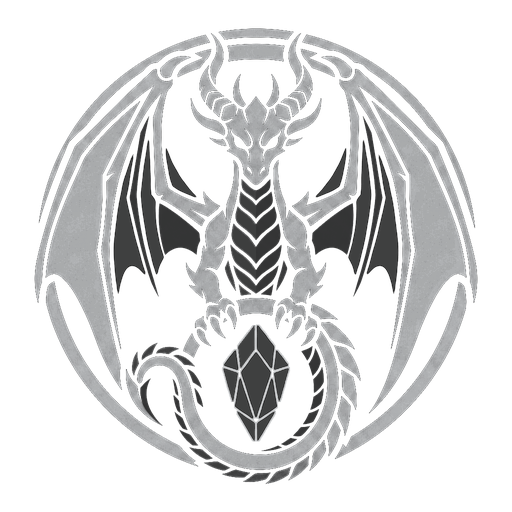
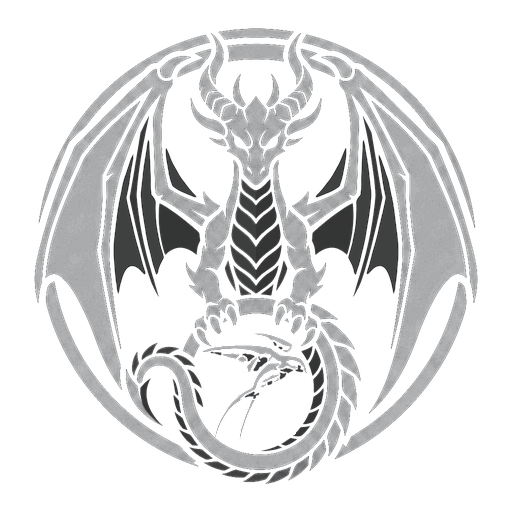
feat(witcher): replace crystal with toggleable Swallow (Zireael) emblem in Onyx Dragon theme (v189)

Changed region(s): [[0.4062, 0.625, 0.5938, 0.875]]

diff --git a/js/modules/witcher.js b/js/modules/witcher.js
@@ -9,6 +9,7 @@
   var WI_ACTIVE_ID_KEY = 'ttc_wi_active_id';
   var WI_META_KEY = 'ttc_wi_meta';
   var WI_THEME_KEY = 'ttc_wi_theme';
+  var WI_DRAGON_SWALLOW_KEY = 'ttc_wi_dragon_swallow';
 
   function defaultWitcherProfile(){
     return {
@@ -394,12 +395,40 @@
         id: 'dragon',
         title: 'Ониксовый Дракон',
         sub: 'Чёрный Оникс • Обсидиан и Пепел',
-        icon: 'symbols/Witcher/onyx_dragon_crest.png?v=165',
+        icon: 'symbols/Witcher/onyx_dragon_crest.png?v=189',
         accent: '#d4d4d8',
         glow: 'rgba(212,212,216,0.45)',
         toast: '🐉 Тема: Ониксовый Дракон (Чёрный Оникс и Обсидиан)'
       }
     ],
+
+    isDragonSwallowEnabled: function(){
+      try {
+        var raw = localStorage.getItem(WI_DRAGON_SWALLOW_KEY);
+        if(raw === '0' || raw === 'false') return false;
+        if(raw === '1' || raw === 'true') return true;
+      } catch(e){}
+      if(WI.meta && typeof WI.meta.dragonSwallow === 'boolean') return WI.meta.dragonSwallow;
+      return true;
+    },
+
+    setDragonSwallow: function(enabled){
+      var val = !!enabled;
+      try {
+        localStorage.setItem(WI_DRAGON_SWALLOW_KEY, val ? '1' : '0');
+      } catch(e){}
+      var m = WI.getMeta();
+      m.dragonSwallow = val;
+      WI.saveMeta(m);
+      WI.applyWitcherTheme();
+      return val;
+    },
+
+    getDragonCrestUrl: function(){
+      return WI.isDragonSwallowEnabled()
+        ? 'symbols/Witcher/onyx_dragon_crest.png?v=189'
+        : 'symbols/Witcher/onyx_dragon_crest_empty.png?v=189';
+    },
 
     getTheme: function(){
       var valid = function(id){
@@ -548,9 +577,10 @@
     },
 
     buildOnyxDragonEmblemSvg: function(){
+      var crestUrl = WI.getDragonCrestUrl();
       return '<div class="wi-bg-dragon-wrap" aria-hidden="true">' +
         '<div class="wi-bg-dragon-crest">' +
-          '<img src="symbols/Witcher/onyx_dragon_crest.png?v=165" alt="" draggable="false" />' +
+          '<img src="' + crestUrl + '" alt="" draggable="false" />' +
         '</div>' +
       '</div>';
     },
@@ -560,6 +590,7 @@
       cont.innerHTML = '';
       var theme = WI.getTheme();
       cont.setAttribute('data-wi-theme', theme);
+      cont.setAttribute('data-wi-dragon-swallow', WI.isDragonSwallowEnabled() ? '1' : '0');
 
       // 1. Фоновая геральдика активной темы
       var medallionWrap = document.createElement('div');
@@ -772,7 +803,8 @@
         document.body.insertBefore(cont, document.body.firstChild);
       }
       var curTheme = WI.getTheme();
-      if(cont.children.length === 0 || !cont.querySelector('.wi-sign-particle') || cont.getAttribute('data-wi-theme') !== curTheme){
+      var swallowAttr = WI.isDragonSwallowEnabled() ? '1' : '0';
+      if(cont.children.length === 0 || !cont.querySelector('.wi-sign-particle') || cont.getAttribute('data-wi-theme') !== curTheme || (curTheme === 'dragon' && cont.getAttribute('data-wi-dragon-swallow') !== swallowAttr)){
         WI.buildThemeFx(cont);
       }
       cont.style.display = 'block';
@@ -1196,18 +1228,39 @@
     var schoolIcon = getSchoolIcon(p.school);
     var curTheme = WI.getTheme();
     var activeThemeObj = WI.THEMES.find(function(t){ return t.id === curTheme; }) || WI.THEMES[0];
+    var swallowOn = WI.isDragonSwallowEnabled();
 
     var themeChipsHtml = WI.THEMES.map(function(t){
       var isAct = (t.id === curTheme);
+      var iconSrc = (t.id === 'dragon') ? WI.getDragonCrestUrl() : t.icon;
+      var subText = (t.id === 'dragon')
+        ? (swallowOn ? 'Чёрный Оникс • Символ Ласточки' : 'Чёрный Оникс • Обсидиан и Пепел')
+        : t.sub;
       return '<button type="button" class="wi-theme-option-card wi-theme-card-' + escA(t.id) + (isAct ? ' active' : '') + '" data-wi-theme-pick="' + escA(t.id) + '" style="--wi-chip-accent:' + escA(t.accent) + ';--wi-chip-glow:' + escA(t.glow) + ';">' +
-        '<span class="wi-theme-card-icon"><img src="' + escA(t.icon) + '" alt="" draggable="false" /></span>' +
+        '<span class="wi-theme-card-icon"><img src="' + escA(iconSrc) + '" alt="" draggable="false" /></span>' +
         '<span class="wi-theme-card-info">' +
           '<span class="wi-theme-card-title">' + esc(t.title) + '</span>' +
-          '<span class="wi-theme-card-sub">' + esc(t.sub) + '</span>' +
+          '<span class="wi-theme-card-sub">' + esc(subText) + '</span>' +
         '</span>' +
         '<span class="wi-theme-card-dot">' + (isAct ? '✓' : '') + '</span>' +
       '</button>';
     }).join('');
+
+    var dragonSwallowControlHtml = (curTheme === 'dragon')
+      ? '<div class="wi-dragon-swallow-bar">' +
+          '<div class="wi-dragon-swallow-info">' +
+            '<span class="wi-dragon-swallow-preview"><img src="' + escA(WI.getDragonCrestUrl()) + '" alt="" draggable="false" /></span>' +
+            '<div>' +
+              '<div class="wi-dragon-swallow-title">🕊 Символ Ласточки (Zireael) внутри дракона</div>' +
+              '<div class="wi-dragon-swallow-sub">' + (swallowOn ? 'Включён — внутри кольца хвоста отображается знак Ласточки' : 'Выключен — внутри кольца хвоста пустое пространство') + '</div>' +
+            '</div>' +
+          '</div>' +
+          '<div class="wi-dragon-swallow-switch" role="group" aria-label="Символ Ласточки Вкл/Выкл">' +
+            '<button type="button" class="wi-dragon-swallow-btn' + (swallowOn ? ' active' : '') + '" data-wi-dragon-swallow-btn="1">Вкл</button>' +
+            '<button type="button" class="wi-dragon-swallow-btn' + (!swallowOn ? ' active' : '') + '" data-wi-dragon-swallow-btn="0">Выкл</button>' +
+          '</div>' +
+        '</div>'
+      : '';
 
     return crumbWi([{ label: 'Ведьмак', nav: 'wiHome' }, { label: 'Данные' }]) +
       '<button class="back" data-nav="wiHome" onclick="if(typeof window.navigate===\'function\') window.navigate(\'wiHome\');">← Назад</button>' +
@@ -1221,6 +1274,7 @@
         '<div class="wi-theme-picker-grid">' +
           themeChipsHtml +
         '</div>' +
+        dragonSwallowControlHtml +
       '</div>' +
 
       '<div class="sheet-section wi-data-section">' +
@@ -1361,6 +1415,17 @@
         if(typeof render === 'function') render();
         var tObj = WI.THEMES.find(function(t){ return t.id === chosen; });
         WI.toast(tObj && tObj.toast ? tObj.toast : ('✓ Включена тема «' + chosen + '»'), 'success');
+      });
+    });
+
+    // Переключение символа Ласточки внутри темы «Ониксовый Дракон»
+    document.querySelectorAll('[data-wi-dragon-swallow-btn]').forEach(function(btn){
+      btn.addEventListener('click', function(){
+        var nextState = btn.getAttribute('data-wi-dragon-swallow-btn') === '1';
+        if(WI.isDragonSwallowEnabled() === nextState) return;
+        WI.setDragonSwallow(nextState);
+        if(typeof render === 'function') render();
+        WI.toast(nextState ? '🕊 Символ Ласточки: Вкл' : '🐉 Символ Ласточки: Выкл (пустое кольцо)', 'success');
       });
     });
 

diff --git a/index.html b/index.html
@@ -20,34 +20,34 @@
 <link rel="preconnect" href="https://fonts.googleapis.com">
 <link href="https://fonts.googleapis.com/css2?family=Cinzel:wght@500;700&family=EB+Garamond:ital,wght@0,400;0,500;0,600;1,400&family=JetBrains+Mono:wght@400;600&display=swap" rel="stylesheet">
 
-<link rel="stylesheet" href="css/base.css?v=187">
-<link rel="stylesheet" href="css/shinobi.css?v=187">
-<link rel="stylesheet" href="css/mass-effect.css?v=187">
-<link rel="stylesheet" href="css/avatar.css?v=187">
-<link rel="stylesheet" href="css/witcher.css?v=187">
-<link rel="stylesheet" href="css/wizard.css?v=187">
-<link rel="stylesheet" href="css/star-wars.css?v=187">
+<link rel="stylesheet" href="css/base.css?v=189">
+<link rel="stylesheet" href="css/shinobi.css?v=189">
+<link rel="stylesheet" href="css/mass-effect.css?v=189">
+<link rel="stylesheet" href="css/avatar.css?v=189">
+<link rel="stylesheet" href="css/witcher.css?v=189">
+<link rel="stylesheet" href="css/wizard.css?v=189">
+<link rel="stylesheet" href="css/star-wars.css?v=189">
 </head>
 <body>
   <div class="app" id="app"></div>
 
   <!-- Core Data & Utilities -->
-  <script src="js/dnd-data.js?v=187"></script>
-  <script src="js/core.js?v=187"></script>
+  <script src="js/dnd-data.js?v=189"></script>
+  <script src="js/core.js?v=189"></script>
 
   <!-- Modes & Modules -->
-  <script src="js/modules/homebrew.js?v=187"></script>
-  <script src="js/modules/shinobi.js?v=187"></script>
-  <script src="js/modules/mass-effect.js?v=187"></script>
-  <script src="js/modules/avatar.js?v=187"></script>
-  <script src="js/modules/witcher.js?v=187"></script>
-  <script src="js/modules/wizard.js?v=187"></script>
-  <script src="js/sw-galaxy-atlas.js?v=187"></script>
-  <script src="js/modules/star-wars.js?v=187"></script>
-  <script src="js/modules/github-sync.js?v=187"></script>
+  <script src="js/modules/homebrew.js?v=189"></script>
+  <script src="js/modules/shinobi.js?v=189"></script>
+  <script src="js/modules/mass-effect.js?v=189"></script>
+  <script src="js/modules/avatar.js?v=189"></script>
+  <script src="js/modules/witcher.js?v=189"></script>
+  <script src="js/modules/wizard.js?v=189"></script>
+  <script src="js/sw-galaxy-atlas.js?v=189"></script>
+  <script src="js/modules/star-wars.js?v=189"></script>
+  <script src="js/modules/github-sync.js?v=189"></script>
 
   <!-- Main App Router & Bootstrap -->
-  <script src="js/app.js?v=187"></script>
-  <script src="js/modules/ai-assistant.js?v=187"></script>
+  <script src="js/app.js?v=189"></script>
+  <script src="js/modules/ai-assistant.js?v=189"></script>
 </body>
 </html>

diff --git a/css/witcher.css b/css/witcher.css
@@ -4001,3 +4001,94 @@ body.wi-theme .wi-board-del-btn:hover {
   background: rgba(239, 68, 68, 0.15);
 }
 
+/* Переключатель символа Ласточки (Zireael) внутри темы Ониксового Дракона */
+.wi-dragon-swallow-bar {
+  display: flex;
+  align-items: center;
+  justify-content: space-between;
+  gap: 12px;
+  flex-wrap: wrap;
+  margin-top: 10px;
+  padding: 9px 12px;
+  border-radius: 7px;
+  background: linear-gradient(145deg, rgba(22, 22, 26, 0.94) 0%, rgba(12, 12, 15, 0.98) 100%);
+  border: 1px solid rgba(212, 212, 216, 0.28);
+  box-shadow: 0 4px 14px rgba(0, 0, 0, 0.65), inset 0 1px 0 rgba(255, 255, 255, 0.06);
+}
+
+.wi-dragon-swallow-info {
+  display: flex;
+  align-items: center;
+  gap: 10px;
+  min-width: 0;
+  flex: 1;
+}
+
+.wi-dragon-swallow-preview {
+  width: 34px;
+  height: 34px;
+  flex-shrink: 0;
+  border-radius: 6px;
+  background: rgba(9, 9, 11, 0.9);
+  border: 1px solid rgba(161, 161, 170, 0.35);
+  display: flex;
+  align-items: center;
+  justify-content: center;
+  padding: 2px;
+}
+
+.wi-dragon-swallow-preview img {
+  width: 100%;
+  height: 100%;
+  object-fit: contain;
+  display: block;
+}
+
+.wi-dragon-swallow-title {
+  font-size: 12.5px;
+  font-weight: 700;
+  color: #f4f4f5;
+  line-height: 1.25;
+}
+
+.wi-dragon-swallow-sub {
+  font-size: 11px;
+  color: #a1a1aa;
+  margin-top: 2px;
+  line-height: 1.25;
+}
+
+.wi-dragon-swallow-switch {
+  display: inline-flex;
+  background: rgba(9, 9, 11, 0.92);
+  border: 1px solid rgba(161, 161, 170, 0.32);
+  border-radius: 6px;
+  padding: 2px;
+  gap: 2px;
+  flex-shrink: 0;
+}
+
+.wi-dragon-swallow-btn {
+  border: 1px solid transparent;
+  background: transparent;
+  color: #a1a1aa;
+  font-size: 11.5px;
+  font-weight: 700;
+  padding: 5px 12px;
+  border-radius: 4px;
+  cursor: pointer;
+  transition: all 0.16s ease;
+}
+
+.wi-dragon-swallow-btn:hover {
+  color: #f4f4f5;
+}
+
+.wi-dragon-swallow-btn.active {
+  background: linear-gradient(135deg, rgba(82, 82, 91, 0.85) 0%, rgba(39, 39, 42, 0.95) 100%);
+  border-color: rgba(228, 228, 231, 0.55);
+  color: #ffffff;
+  box-shadow: 0 0 10px rgba(212, 212, 216, 0.25);
+}
+
+

diff --git a/sw.js b/sw.js
@@ -1,4 +1,4 @@
-const CACHE_NAME = 'compendium-cache-v187';
+const CACHE_NAME = 'compendium-cache-v189';
 const APP_SHELL = [
   './',
   './index.html',
@@ -43,6 +43,7 @@ const APP_SHELL = [
   './symbols/Witcher/skellige_crest.png',
   './symbols/Witcher/syndicate_crest.png',
   './symbols/Witcher/onyx_dragon_crest.png',
+  './symbols/Witcher/onyx_dragon_crest_empty.png',
   './symbols/Witcher/coin_crown.png',
   './symbols/Witcher/coin_floren.png',
   './symbols/Witcher/coin_oren.png',
